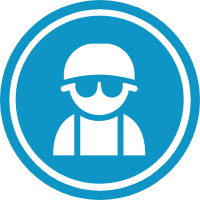
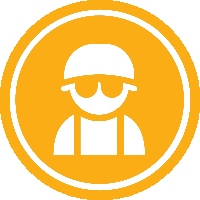
4.11 17:03 替换图片 表格修改

diff --git a/src/components/pc/Linhai/School/Maintain_wgy.vue b/src/components/pc/Linhai/School/Maintain_wgy.vue
@@ -42,42 +42,47 @@
                 :row-class-name="tableRowClassName"
                 style="width: 100%">
             <el-table-column
+                    fixed="left"
                     align="center"
                     prop="MIID"
-                    label="ID">
+                    label="ID"
+                    width="80">
             </el-table-column>
             <el-table-column
+                    fixed="left"
                     align="center"
                     prop="nickname"
-                    label="姓名">
+                    label="姓名"
+                    width="90">
             </el-table-column>
             <el-table-column
                     align="center"
                     prop="company"
                     label="单位名称"
-                    min-width="120">
+                    min-width="180">
             </el-table-column>
             <el-table-column
                     align="center"
                     prop="mobile"
-                    label="手机号">
+                    label="手机号"
+                    width="120">
             </el-table-column>
             <el-table-column
                     align="center"
                     prop="id_card"
                     label="身份证号"
-                    min-width="120">
+                    min-width="180">
             </el-table-column>
             <el-table-column
                     align="center"
                     prop="health_id_card"
                     label="健康证号"
-                    min-width="120">
+                    min-width="180">
             </el-table-column>
             <el-table-column
                     align="center"
                     label="人脸照片"
-                    min-width="80">
+                    min-width="100">
                 <template slot-scope="scope">
                     <el-image
                             style="width: 35px; height: 35px;"
@@ -89,7 +94,7 @@
             <el-table-column
                     align="center"
                     label="健康证照片"
-                    min-width="80">
+                    min-width="100">
                 <template slot-scope="scope">
                     <el-image
                             style="width: 35px; height: 35px"
@@ -101,17 +106,21 @@
             <el-table-column
                     align="center"
                     prop="health_endtime"
-                    label="健康证到期时间">
+                    label="健康证到期时间"
+                    width="130">
             </el-table-column>
             <el-table-column
                     align="center"
                     prop="member_type"
-                    label="人员类别">
+                    label="人员类别"
+                    min-width="130">
             </el-table-column>
             <el-table-column
+                    fixed="right"
                     align="center"
                     prop="timeStr"
-                    label="添加时间">
+                    label="添加时间"
+                    width="170">
             </el-table-column>
         </el-table>
         <div style="padding: 15px;display: flex;justify-content: flex-end;background: #fff">

diff --git a/src/components/pc/Linhai/School2/Maintain_list.vue b/src/components/pc/Linhai/School2/Maintain_list.vue
@@ -38,39 +38,47 @@
                 :row-class-name="tableRowClassName"
                 style="width: 100%">
             <el-table-column
+                    fixed="left"
                     align="center"
                     prop="MIID"
-                    label="ID">
+                    label="ID"
+                    width="80">
             </el-table-column>
             <el-table-column
+                    fixed="left"
                     align="center"
                     prop="nickname"
-                    label="姓名">
+                    label="姓名"
+                    width="90">
             </el-table-column>
             <el-table-column
                     align="center"
                     prop="company"
-                    label="单位名称">
+                    label="单位名称"
+                    min-width="180">
             </el-table-column>
             <el-table-column
                     align="center"
                     prop="mobile"
-                    label="手机号">
+                    label="手机号"
+                    width="120">
             </el-table-column>
             <el-table-column
                     align="center"
                     prop="id_card"
-                    label="身份证号">
+                    label="身份证号"
+                    min-width="180">
             </el-table-column>
             <el-table-column
                     align="center"
                     prop="health_id_card"
-                    label="健康证号">
+                    label="健康证号"
+                    min-width="180">
             </el-table-column>
             <el-table-column
                     align="center"
                     label="人脸照片"
-                    min-width="80">
+                    min-width="100">
                 <template slot-scope="scope">
                     <el-image
                             style="width: 35px; height: 35px;"
@@ -82,7 +90,7 @@
             <el-table-column
                     align="center"
                     label="健康证照片"
-                    min-width="80">
+                    min-width="100">
                 <template slot-scope="scope">
                     <el-image
                             style="width: 35px; height: 35px"
@@ -94,17 +102,20 @@
             <el-table-column
                     align="center"
                     prop="health_endtime"
-                    label="健康证到期时间">
+                    label="健康证到期时间"
+                    width="130">
             </el-table-column>
             <el-table-column
                     align="center"
                     prop="member_type"
-                    label="人员类别">
+                    label="人员类别"
+                    min-width="130">
             </el-table-column>
             <el-table-column
                     align="center"
                     prop="timeStr"
-                    label="添加时间">
+                    label="添加时间"
+                    width="170">
             </el-table-column>
             <el-table-column
                     align="center"

diff --git a/src/components/pc/Linhai/Admin/Strange_people.vue b/src/components/pc/Linhai/Admin/Strange_people.vue
@@ -57,17 +57,20 @@
             <el-table-column
                     align="center"
                     prop="id"
-                    label="ID">
+                    label="ID"
+                    width="80">
             </el-table-column>
             <el-table-column
                     align="center"
                     prop="name"
-                    label="抓拍区域">
+                    label="抓拍区域"
+                    min-width="150">
             </el-table-column>
             <el-table-column
                     align="center"
                     prop="cameraName"
-                    label="抓拍地点">
+                    label="抓拍地点"
+                    min-width="150">
             </el-table-column>
 <!--            <el-table-column-->
 <!--                    align="center"-->
@@ -82,7 +85,8 @@
 <!--            </el-table-column>-->
             <el-table-column
                     align="center"
-                    label="抓拍图片">
+                    label="抓拍图片"
+                    width="100">
                 <template slot-scope="scope">
                     <el-image
                             style="width: 35px; height: 35px"
@@ -94,27 +98,32 @@
             <el-table-column
                     align="center"
                     prop="gender"
-                    label="性别">
+                    label="性别"
+                    width="100">
             </el-table-column>
             <el-table-column
                     align="center"
                     prop="ageGroup"
-                    label="年龄段">
+                    label="年龄段"
+                    width="100">
             </el-table-column>
             <el-table-column
                     align="center"
                     prop="glass"
-                    label="是否戴眼镜">
+                    label="是否戴眼镜"
+                    width="100">
             </el-table-column>
             <el-table-column
                     align="center"
                     prop="faceTime"
-                    label="抓拍时间">
+                    label="抓拍时间"
+                    width="200">
             </el-table-column>
             <el-table-column
                     align="center"
                     prop="stranger_status"
-                    label="当前状态">
+                    label="当前状态"
+                    width="100">
                 <template slot-scope="scope">
                     <span v-if="scope.row.stranger_status==0">未处理</span>
                     <span v-if="scope.row.stranger_status==1">已处理</span>
@@ -124,7 +133,7 @@
                     align="center"
                     fixed="right"
                     label="操作"
-                    width="100">
+                    width="200">
                 <template slot-scope="scope">
                     <el-button v-if="scope.row.stranger_status==0" @click="imgshowBtn(scope.row.bkgUrl)" type="text" size="small">查看原图</el-button>
                     <el-button v-if="scope.row.stranger_status==0" @click="remind(scope.row.id)" type="text" size="small">提醒</el-button>

diff --git a/src/components/pc/Linhai/School2/Report_msg.vue b/src/components/pc/Linhai/School2/Report_msg.vue
@@ -34,7 +34,8 @@
             <el-table-column
                     align="center"
                     prop="id"
-                    label="ID">
+                    label="ID"
+                    width="80">
             </el-table-column>
             <el-table-column
                     align="center"
@@ -49,7 +50,7 @@
             <el-table-column
                     align="center"
                     label="图片信息"
-                    min-width="80">
+                    width="100">
                 <template slot-scope="scope">
                     <el-image v-if="scope.row.path&&scope.row.path.length>0"
                             style="width: 35px; height: 35px;"
@@ -69,7 +70,8 @@
             <el-table-column
                     align="center"
                     prop="personCharge"
-                    label="负责人">
+                    label="负责人"
+                    width="100">
             </el-table-column>
             <el-table-column
                     align="center"
@@ -79,7 +81,8 @@
             <el-table-column
                     align="center"
                     prop="timeStr"
-                    label="日期">
+                    label="日期"
+                    min-width="100">
             </el-table-column>
             <el-table-column
                     align="center"

diff --git a/src/components/pc/Linhai/School/School_list.vue b/src/components/pc/Linhai/School/School_list.vue
@@ -27,7 +27,8 @@
             <el-table-column
                     align="center"
                     prop="id"
-                    label="学校编号">
+                    label="学校编号"
+                    width="100">
             </el-table-column>
             <el-table-column
                     align="center"
@@ -57,7 +58,8 @@
             <el-table-column
                     align="center"
                     fixed="right"
-                    label="操作">
+                    label="操作"
+                    width="200">
                 <template slot-scope="scope">
                     <el-button @click="dialogShow(2,scope.row)" type="text" size="small">上传报告</el-button>
                     <el-button @click="goViolation(scope.row.id)" type="text" size="small">查看违规</el-button>

diff --git a/src/components/pc/Linhai/Admin/Key_personnel.vue b/src/components/pc/Linhai/Admin/Key_personnel.vue
@@ -40,7 +40,8 @@
                     <el-table-column
                             align="center"
                             prop="id"
-                            label="ID">
+                            label="ID"
+                            width="80">
                     </el-table-column>
                     <el-table-column
                             align="center"
@@ -141,7 +142,8 @@
                     <el-table-column
                             align="center"
                             prop="id"
-                            label="ID">
+                            label="ID"
+                            width="80">
                     </el-table-column>
                     <el-table-column
                             align="center"

diff --git a/src/components/pc/Linhai/School/Alert_monitor.vue b/src/components/pc/Linhai/School/Alert_monitor.vue
@@ -100,7 +100,8 @@
             <el-table-column
                     fixed="right"
                     label="操作"
-                    width="100">
+                    width="100"
+                    align="center">
                 <template slot-scope="scope">
                     <el-button @click="openLoak(scope.row)" type="text" size="small">详情</el-button>
                 </template>

diff --git a/src/components/pc/Linhai/Admin/School_show.vue b/src/components/pc/Linhai/Admin/School_show.vue
@@ -31,7 +31,8 @@
                     <el-table-column
                             align="center"
                             prop="id"
-                            label="ID">
+                            label="ID"
+                            width="80">
                     </el-table-column>
                     <el-table-column
                             align="center"

diff --git a/src/components/pc/Linhai/School/Violation_list.vue b/src/components/pc/Linhai/School/Violation_list.vue
@@ -76,7 +76,8 @@
             <el-table-column
                     align="center"
                     prop="id"
-                    label="违规序号">
+                    label="违规序号"
+                    width="100">
             </el-table-column>
             <el-table-column
                     align="center"
